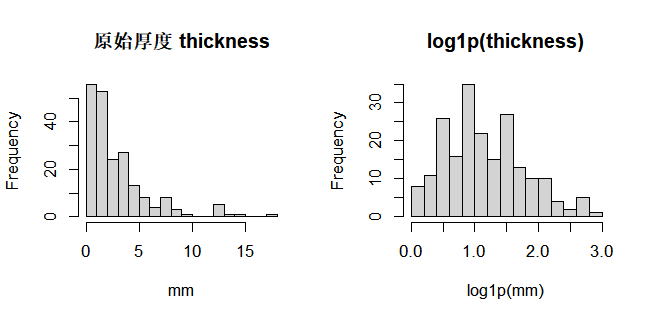
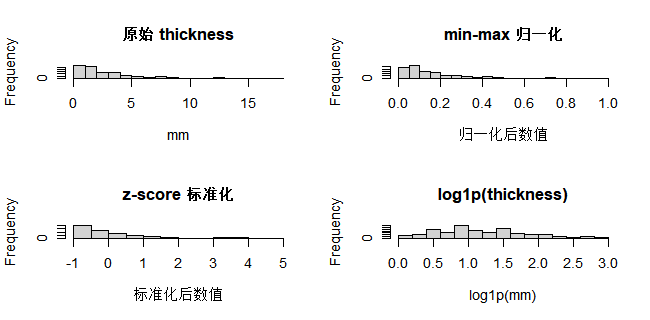
Summary

diff --git a/docs/03/index.html b/docs/03/index.html
@@ -320,20 +320,31 @@ x_log1p <- log1p(x_raw)       # log(1 + x)，对接近 0 的值更稳健</code><
         <pre><code class="language-r">library(MASS)
 data(Melanoma)
 
-x_raw <- Melanoma$thickness
-x_log <- log1p(x_raw)  # 使用 log(1 + x) 避免对 0 出问题
+x_raw    <- Melanoma$thickness
+x_minmax <- (x_raw - min(x_raw, na.rm = TRUE)) /
+            (max(x_raw, na.rm = TRUE) - min(x_raw, na.rm = TRUE))
+x_z      <- as.numeric(scale(x_raw))
+x_log1p  <- log1p(x_raw)  # 使用 log(1 + x) 避免对 0 出问题
 
-par(mfrow = c(1, 2))
+par(mfrow = c(2, 2))
 hist(x_raw,
      breaks = 15,
-     main   = "原始厚度 thickness",
+     main   = "原始 thickness",
      xlab   = "mm")
-hist(x_log,
+hist(x_minmax,
+     breaks = 15,
+     main   = "min-max 归一化",
+     xlab   = "归一化后数值")
+hist(x_z,
+     breaks = 15,
+     main   = "z-score 标准化",
+     xlab   = "标准化后数值")
+hist(x_log1p,
      breaks = 15,
      main   = "log1p(thickness)",
      xlab   = "log1p(mm)")</code></pre>
-        <figure class="figure-row" aria-label="Melanoma 厚度对数变换前后直方图">
-          <img src="figures/hist-thickness-raw-log.png" alt="Melanoma 厚度对数变换前后直方图" width="650" height="320">
+        <figure class="figure-row" aria-label="Melanoma 厚度不同变换形式的直方图">
+          <img src="figures/hist-thickness-raw-log.png" alt="Melanoma 厚度不同变换形式的直方图" width="650" height="320">
         </figure>
         <p><strong>使用场景小结：</strong></p>
         <ul>
